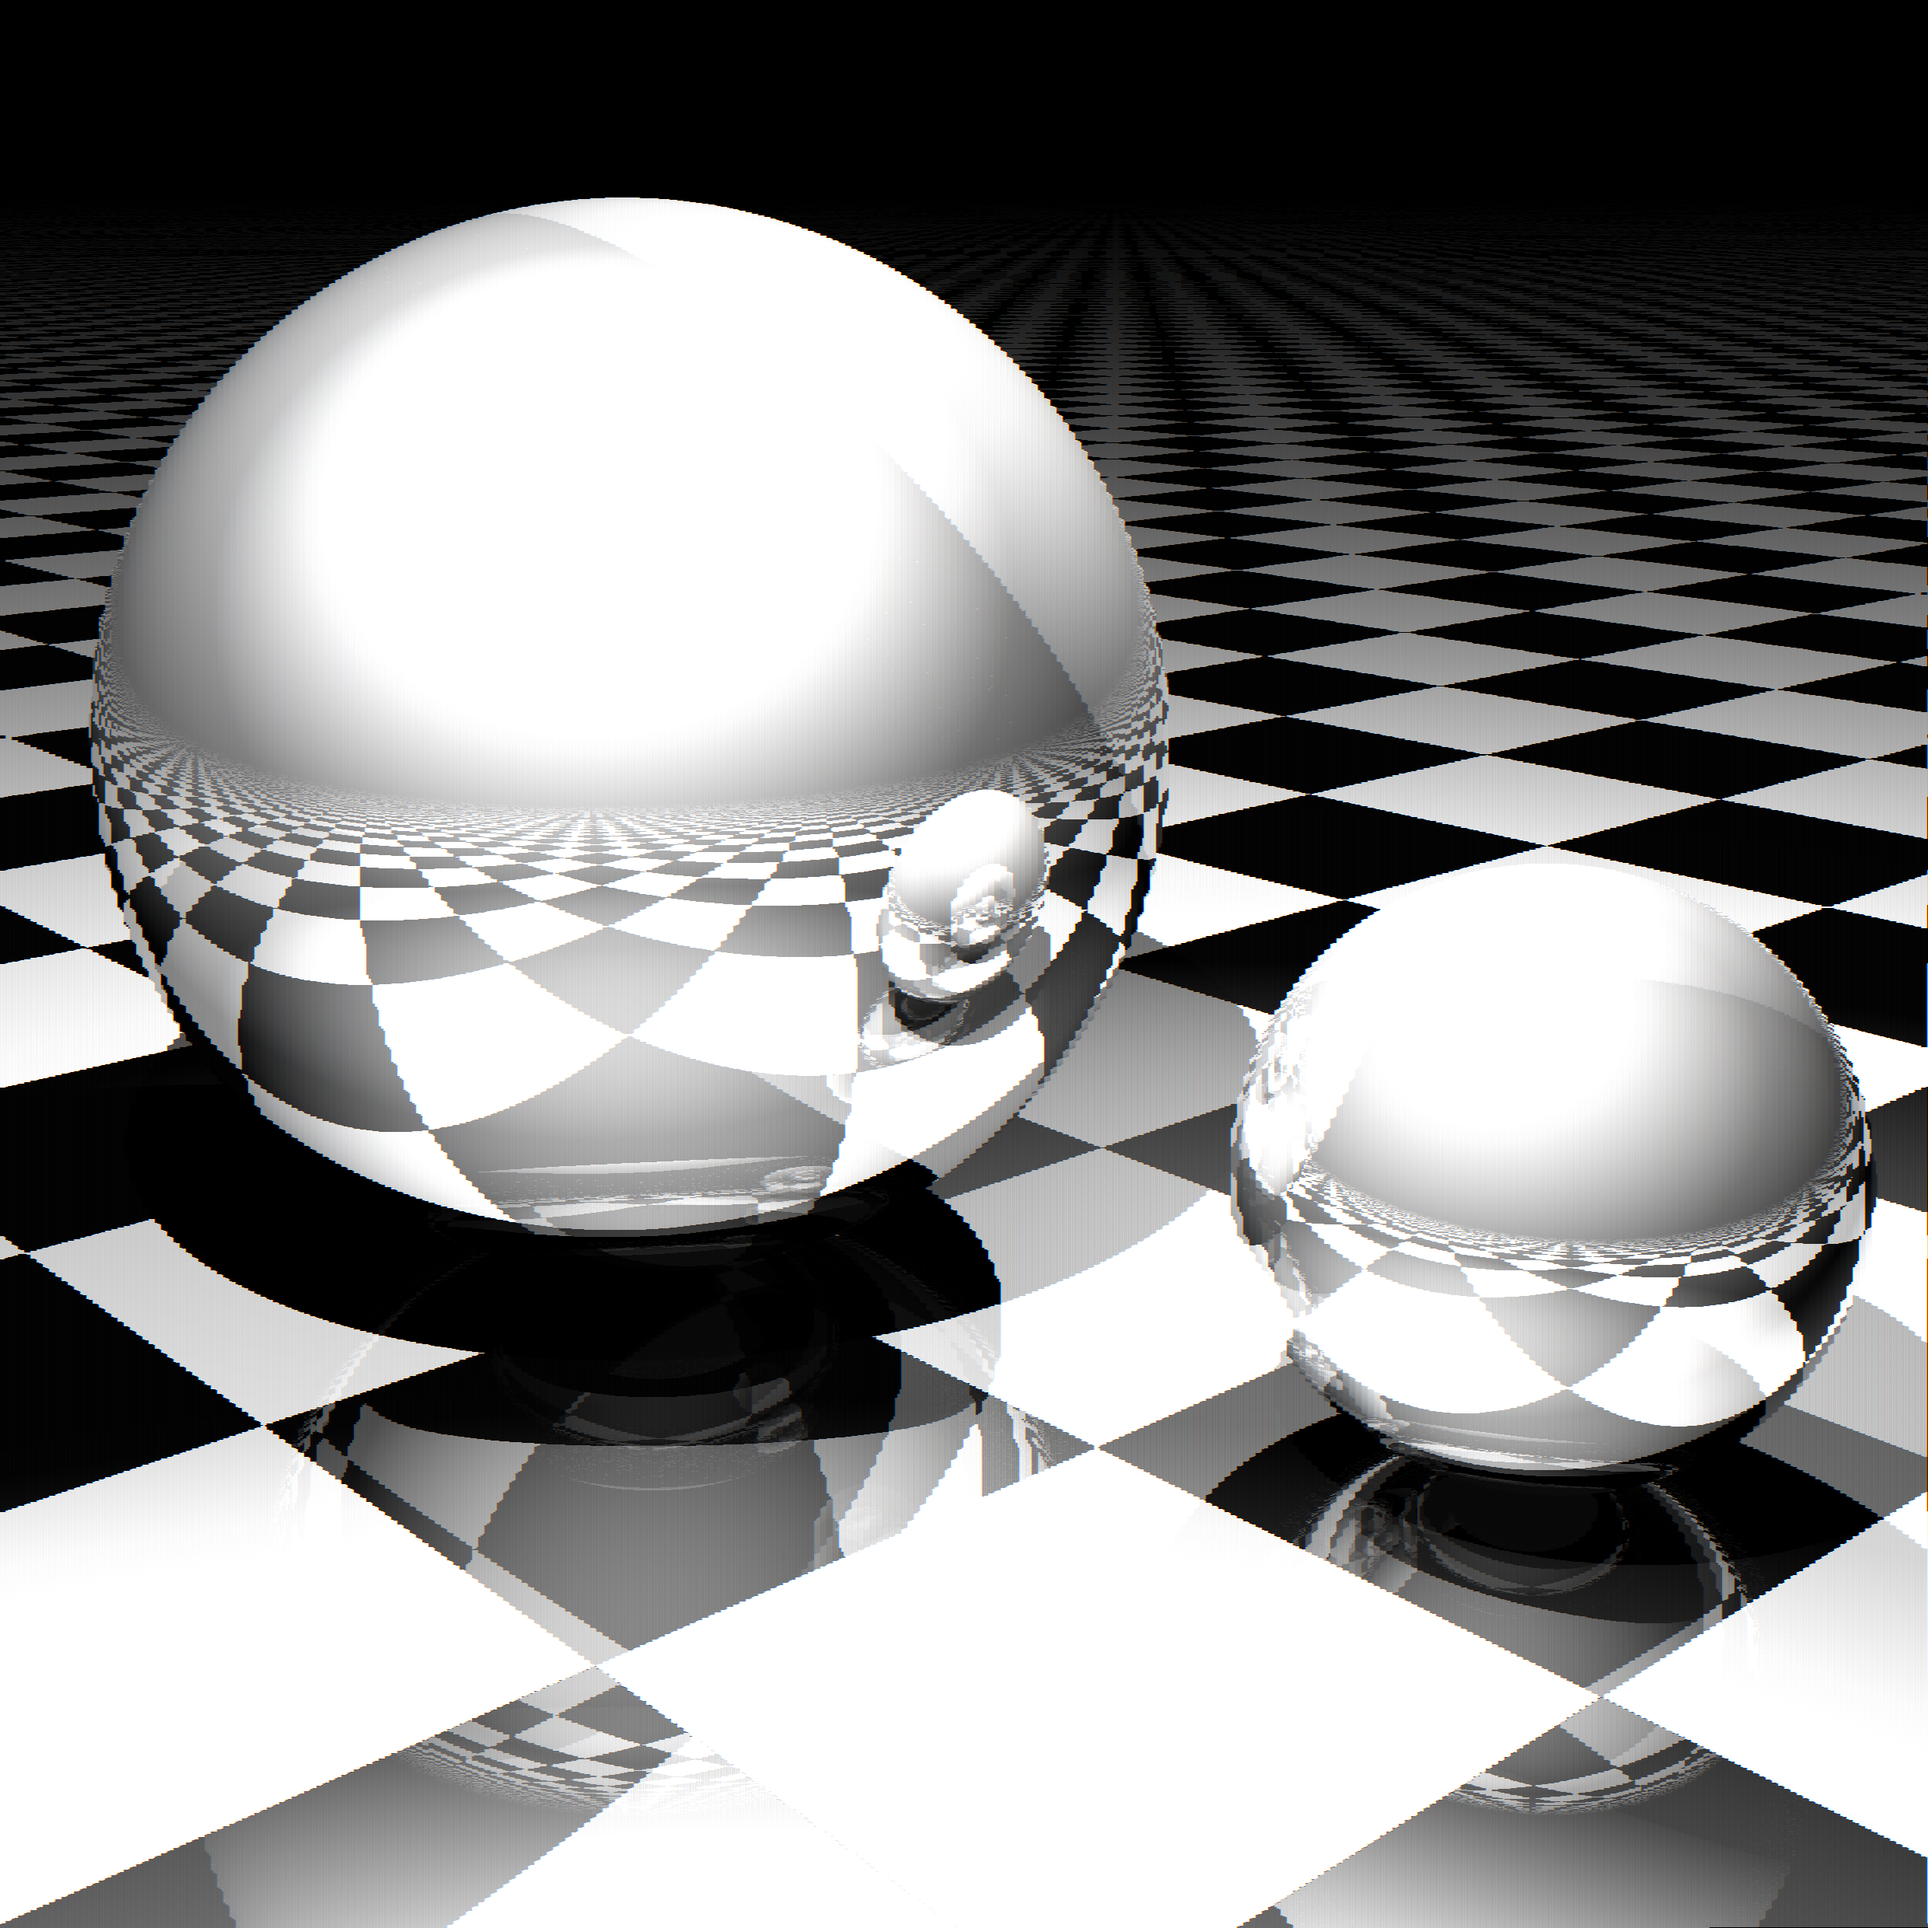
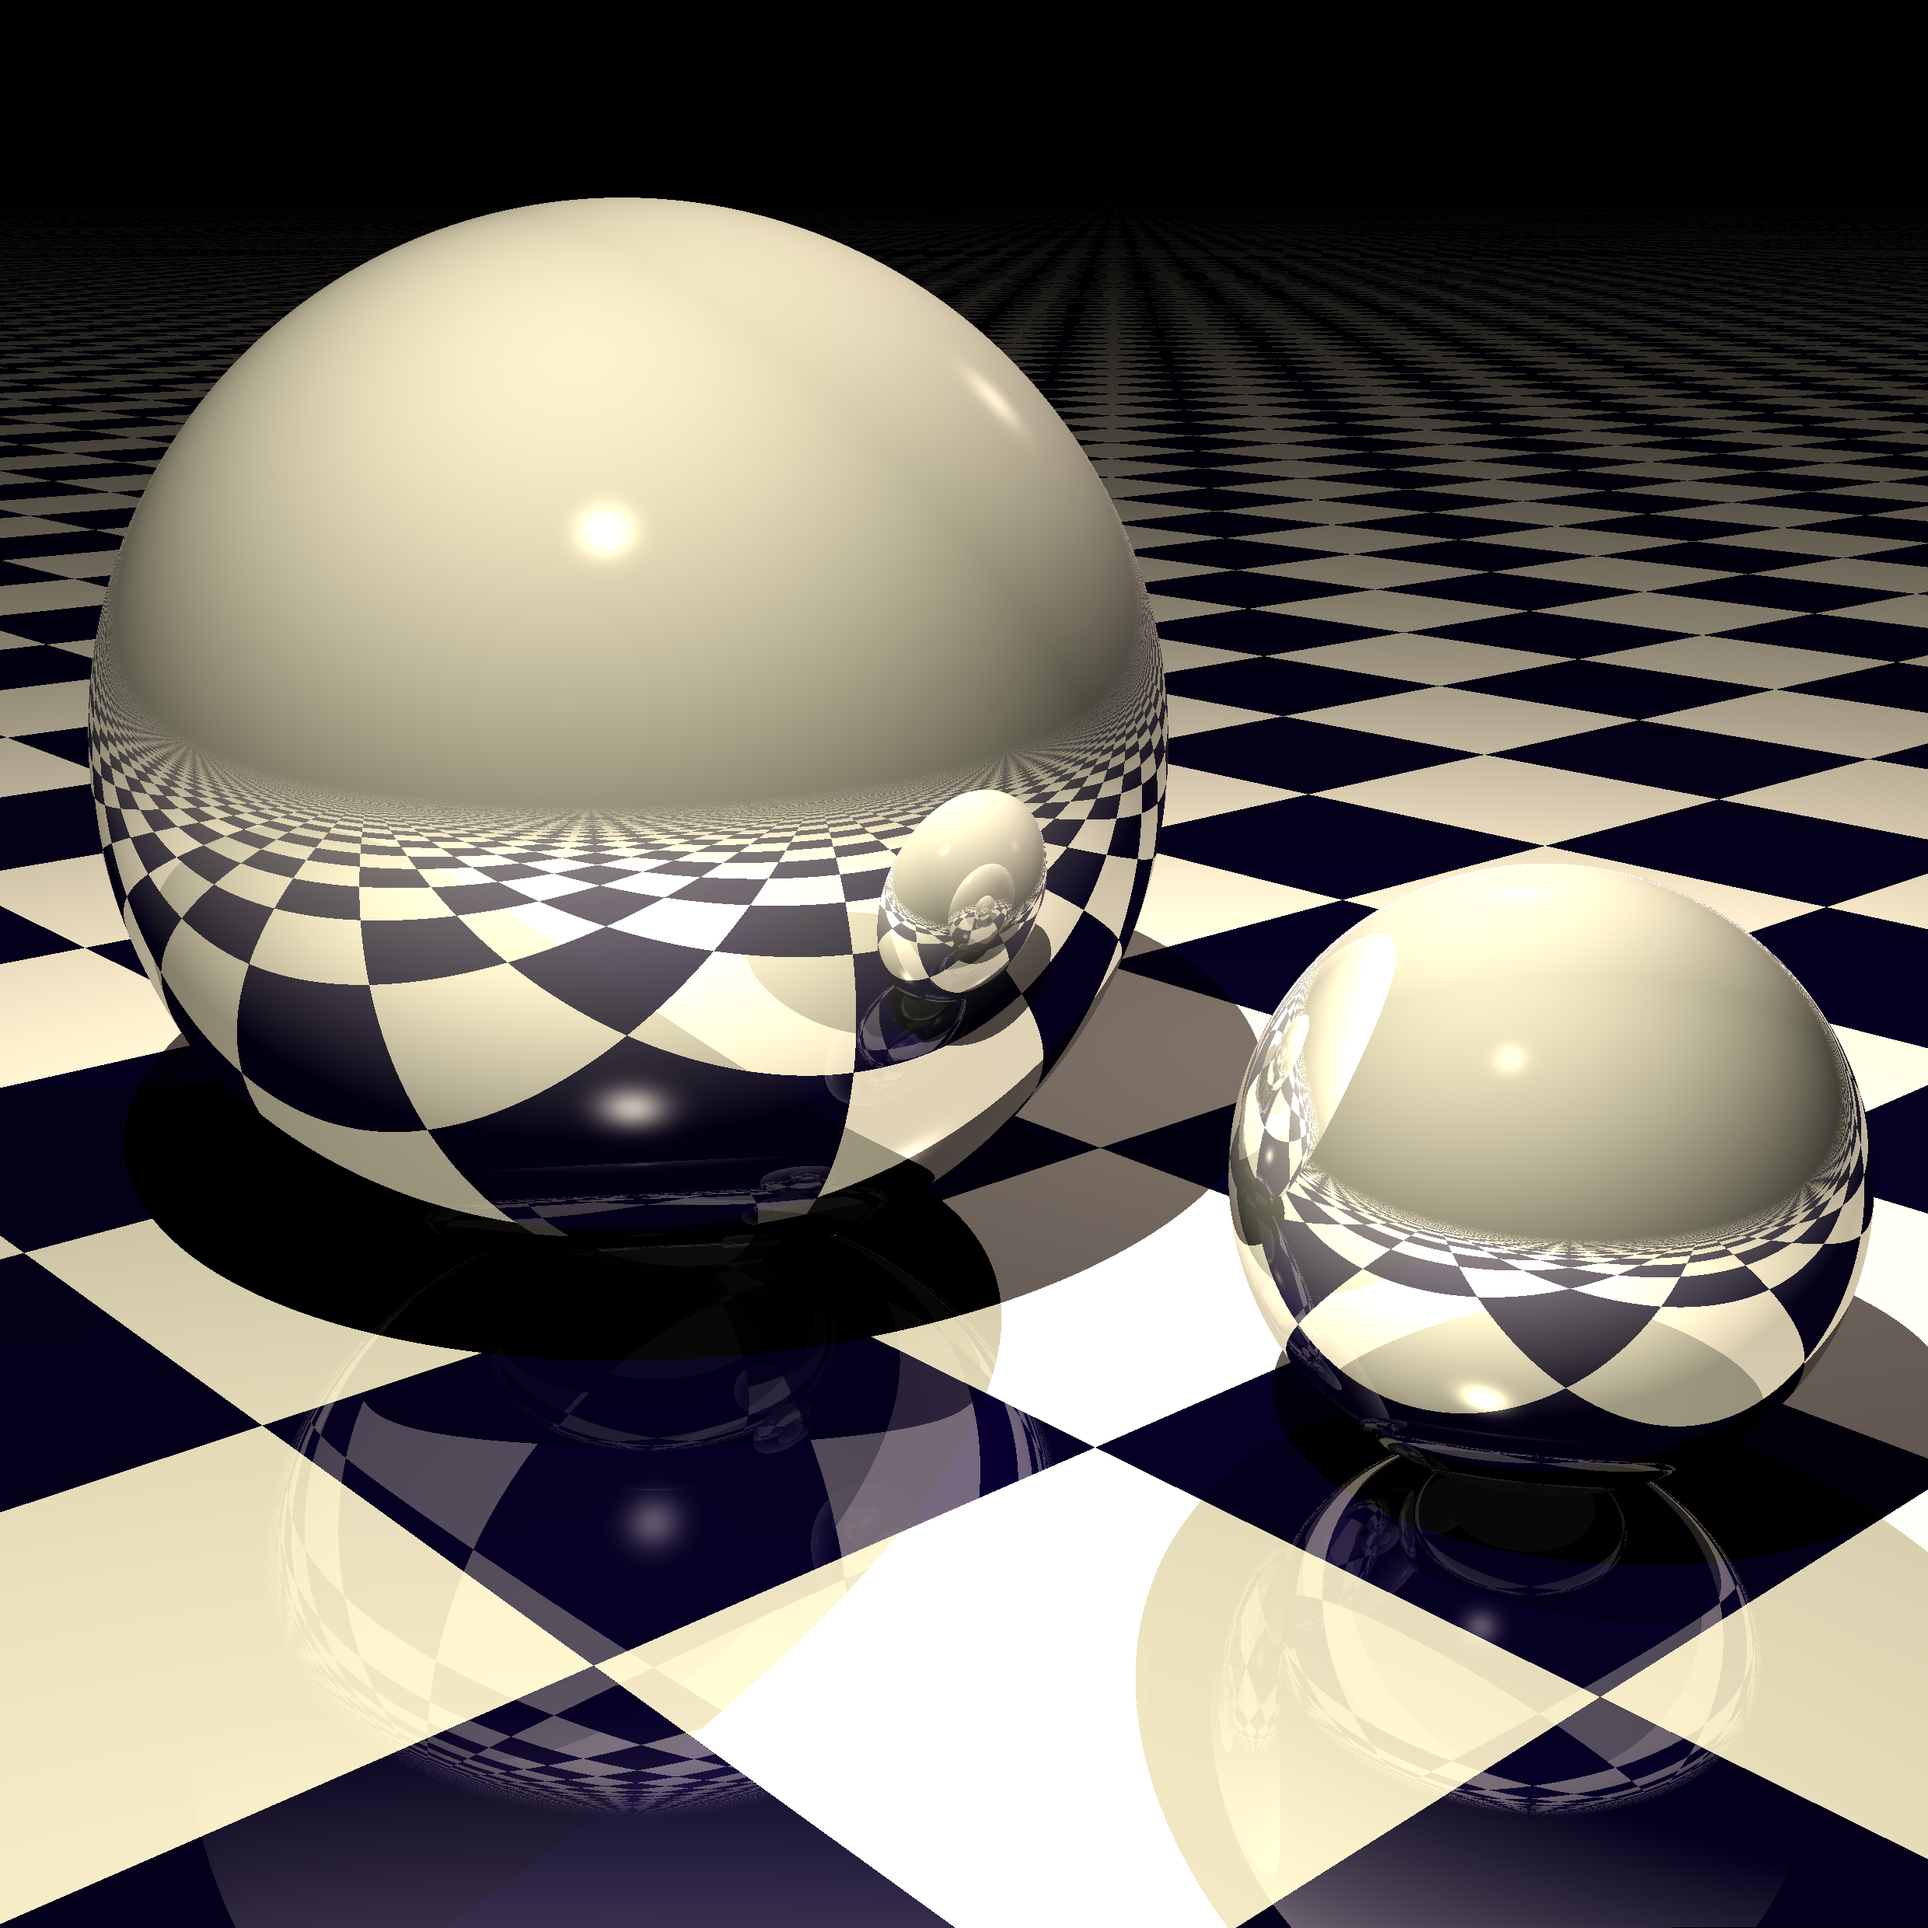
Update README and output

diff --git a/README.md b/README.md
@@ -1,2 +1,4 @@
 # PacketTracer
-The SIMD-accelereted Ray Tracing Algorithm in C# powered by Intel Intrinsic.
+The SIMD-accelereted Ray Tracing Algorithm in C# powered by Intel Hardware Intrinsic of .NET Core.
+
+![alt text](./OutputPicture.png)
